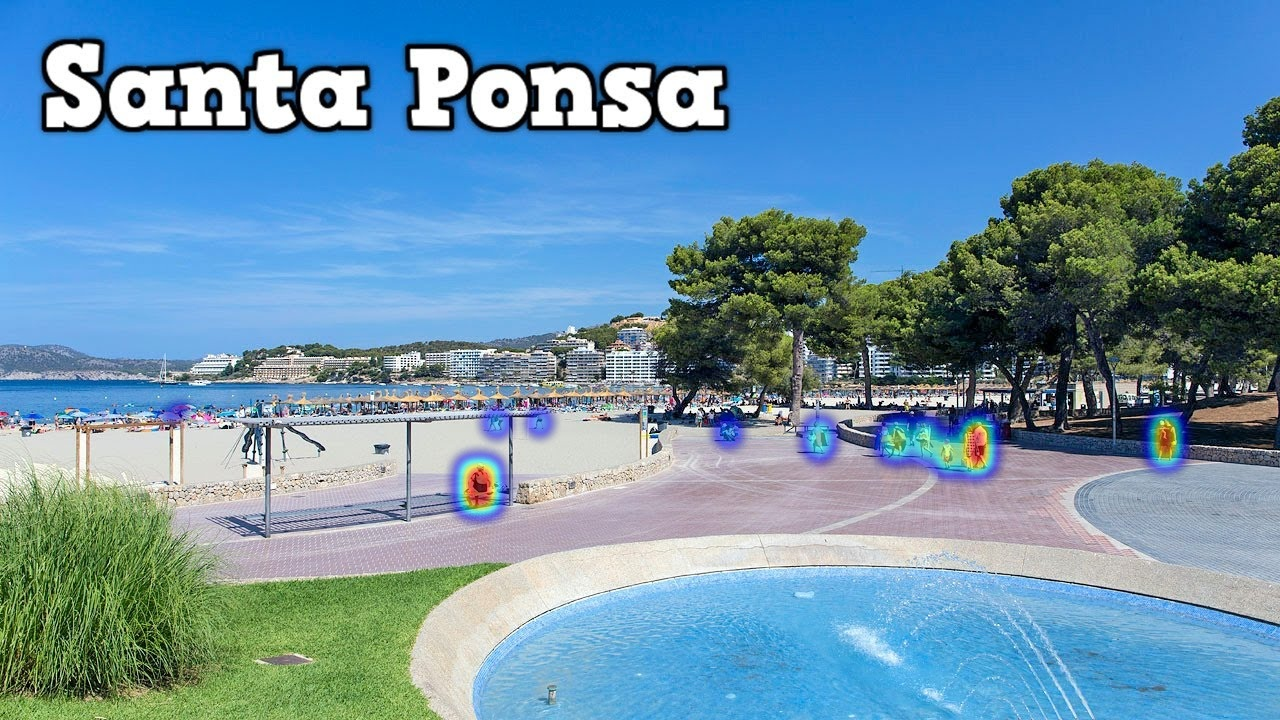
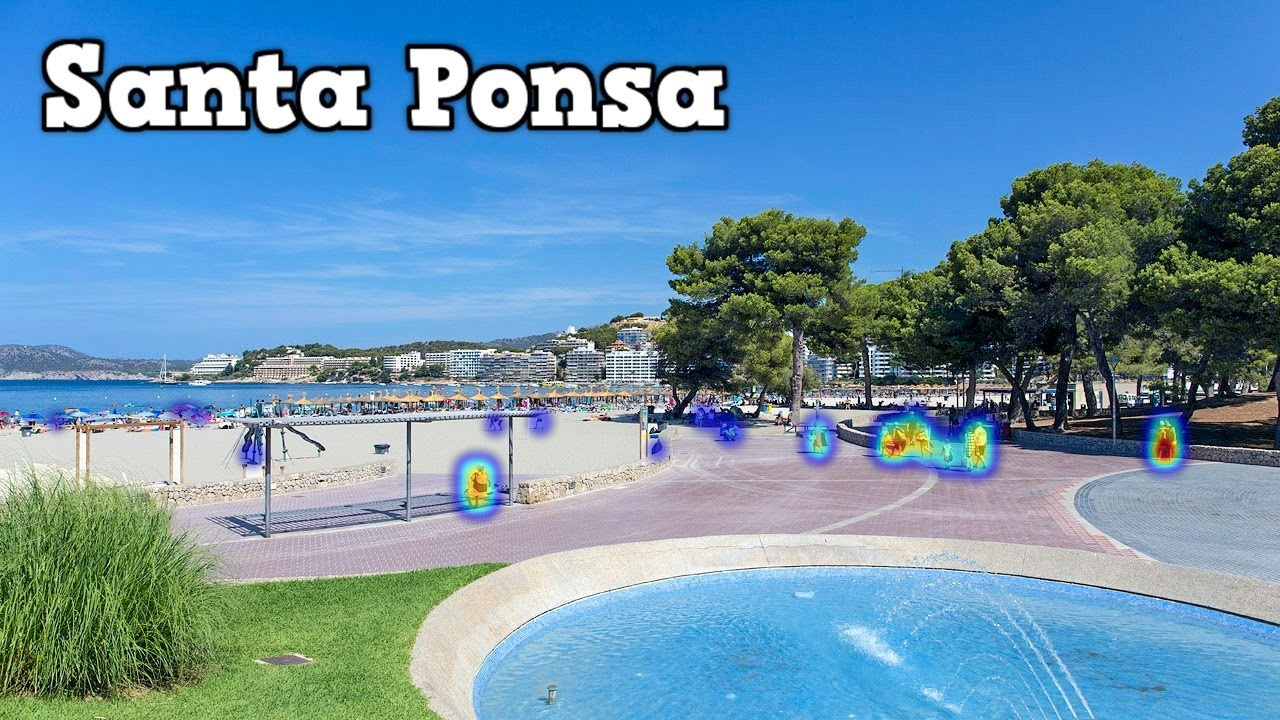
Bump tile grid to 3x3 + drop confidence to 0.15
Benchmark on Santa Ponsa daytime (1280x720):

   tile grid   conf   people  umbrellas  thatched   ms
   (1, 1)      0.20      8       0          0      4500
   (2, 2)      0.20     14       4          1      1400
   (3, 3)      0.15     30       6          2      2800   <- new default
   (4, 4)      0.15     18       0          0      4600
   (4, 4)x     0.10     18       0          0     22700

3x3 is the empirical sweet spot. 4x4 actually regresses because tiles
get small enough that mid-sized people get split across boundaries even
with 15% overlap, and per-class NMS drops the half-detections. yolov8x
at 4x4 doesn't help — the issue is geometry, not model capacity.

Sample images and frontend screenshot refreshed: busyness on the
daytime Santa Ponsa frame is now "busy" / score 39.0 (was "moderate" /
20.0), reflecting detection of the actual beach area in the middle of
the frame rather than just the foreground promenade.

https://claude.ai/code/session_01CTACdTgghhcFgopbSQggMB

diff --git a/backend/config.py b/backend/config.py
@@ -39,9 +39,10 @@ HEATMAP_WINDOW_SECONDS = 600  # 10 minutes
 # weight in the heatmap. Recent detections count more than old ones.
 HEATMAP_HALF_LIFE_SECONDS = 180  # 3 minutes
 
-# Person-detection confidence threshold (0..1). Lower catches more
-# distant figures at the cost of some false positives.
-DETECTION_CONFIDENCE = 0.20
+# YOLO confidence threshold. Lower catches more distant figures at the
+# cost of some false positives — 0.15 is the sweet spot at 3x3 tiling
+# on the Santa Ponsa daylight feed.
+DETECTION_CONFIDENCE = 0.15
 
 # YOLO/COCO class IDs we treat as detection targets:
 #   0  = person
@@ -73,12 +74,12 @@ HEATMAP_BLOB_SIGMA = 12.0
 ANALYSIS_WIDTH = 1920
 
 # Tile grid for sliced inference (rows, cols). (1, 1) = single pass on
-# the whole frame, like the original code. (2, 2) splits the frame into
-# four overlapping tiles and runs YOLO on each — effectively doubles the
-# per-pixel resolution YOLO sees, which catches small people in the
-# distance that get downsampled to invisibility at single-pass. Costs
-# ~rows*cols × the per-frame inference time.
-TILE_GRID: tuple[int, int] = (2, 2)
+# the whole frame. Higher density catches smaller / more-distant people
+# at proportional CPU cost. (3, 3) is the empirical sweet spot for the
+# Santa Ponsa-style high-elevation beach cam — 4x4 makes tiles small
+# enough that mid-sized people get split across boundaries even with
+# 15% overlap, which actually reduces recall.
+TILE_GRID: tuple[int, int] = (3, 3)
 
 # Fractional overlap between adjacent tiles, so detections that straddle
 # a tile boundary aren't truncated. 0.15 = 15% on each side.

diff --git a/README.md b/README.md
@@ -29,9 +29,12 @@ smaller distant one — the heatmap reflects what the camera actually
 sees.
 
 To improve recall on distant people, YOLO runs on a **grid of
-overlapping tiles** of the source frame (default 2×2 with 15%
-overlap) and results are merged via per-class NMS — effectively
-doubles the per-pixel resolution the model sees.
+overlapping tiles** of the source frame (default 3×3 with 15% overlap)
+and results are merged via per-class NMS — each tile gets ~3× the
+per-pixel resolution a single full-frame pass would give YOLO.
+Empirically 3×3 is the sweet spot for high-elevation beach cams; 4×4
+makes tiles small enough that mid-sized people get split across
+boundaries and recall drops.
 
 Umbrellas are detected as a secondary signal because beach cams catch
 lots of prone bodies that YOLO struggles with, but the umbrellas
@@ -182,10 +185,10 @@ so it'll show up automatically.
 | `HEATMAP_HALF_LIFE_SECONDS`   | How quickly recent activity dominates older activity      | `180`        |
 | `HEATMAP_BLOB_SIGMA`          | Size of each person's contribution (pixels @ analysis res)| `22.0`       |
 | `ANALYSIS_WIDTH`              | Inference resolution per tile; higher = more accurate     | `1920`       |
-| `DETECTION_CONFIDENCE`        | YOLO score floor for "this is a target"                   | `0.20`       |
+| `DETECTION_CONFIDENCE`        | YOLO score floor for "this is a target"                   | `0.15`       |
 | `TARGET_CLASSES`              | COCO classes to detect (default: person + umbrella)       | see config   |
 | `CLASS_WEIGHTS`               | Per-kind heatmap weighting (`umbrella_thatched=0` to exclude) | person=1.0, umbrella=0.5, thatched=0.0 |
-| `TILE_GRID`                   | (rows, cols) for sliced inference; (1,1) disables tiling  | `(2, 2)`     |
+| `TILE_GRID`                   | (rows, cols) for sliced inference; (1,1) disables tiling  | `(3, 3)`     |
 | `TILE_OVERLAP`                | Fractional overlap between tiles                          | `0.15`       |
 | `DEDUP_IOU`                   | IoU threshold for cross-tile NMS                          | `0.45`       |
 | `YOLO_MODEL`                  | `yolov8n.pt` (fastest) … `yolov8x.pt` (most accurate)     | `yolov8m.pt` |
